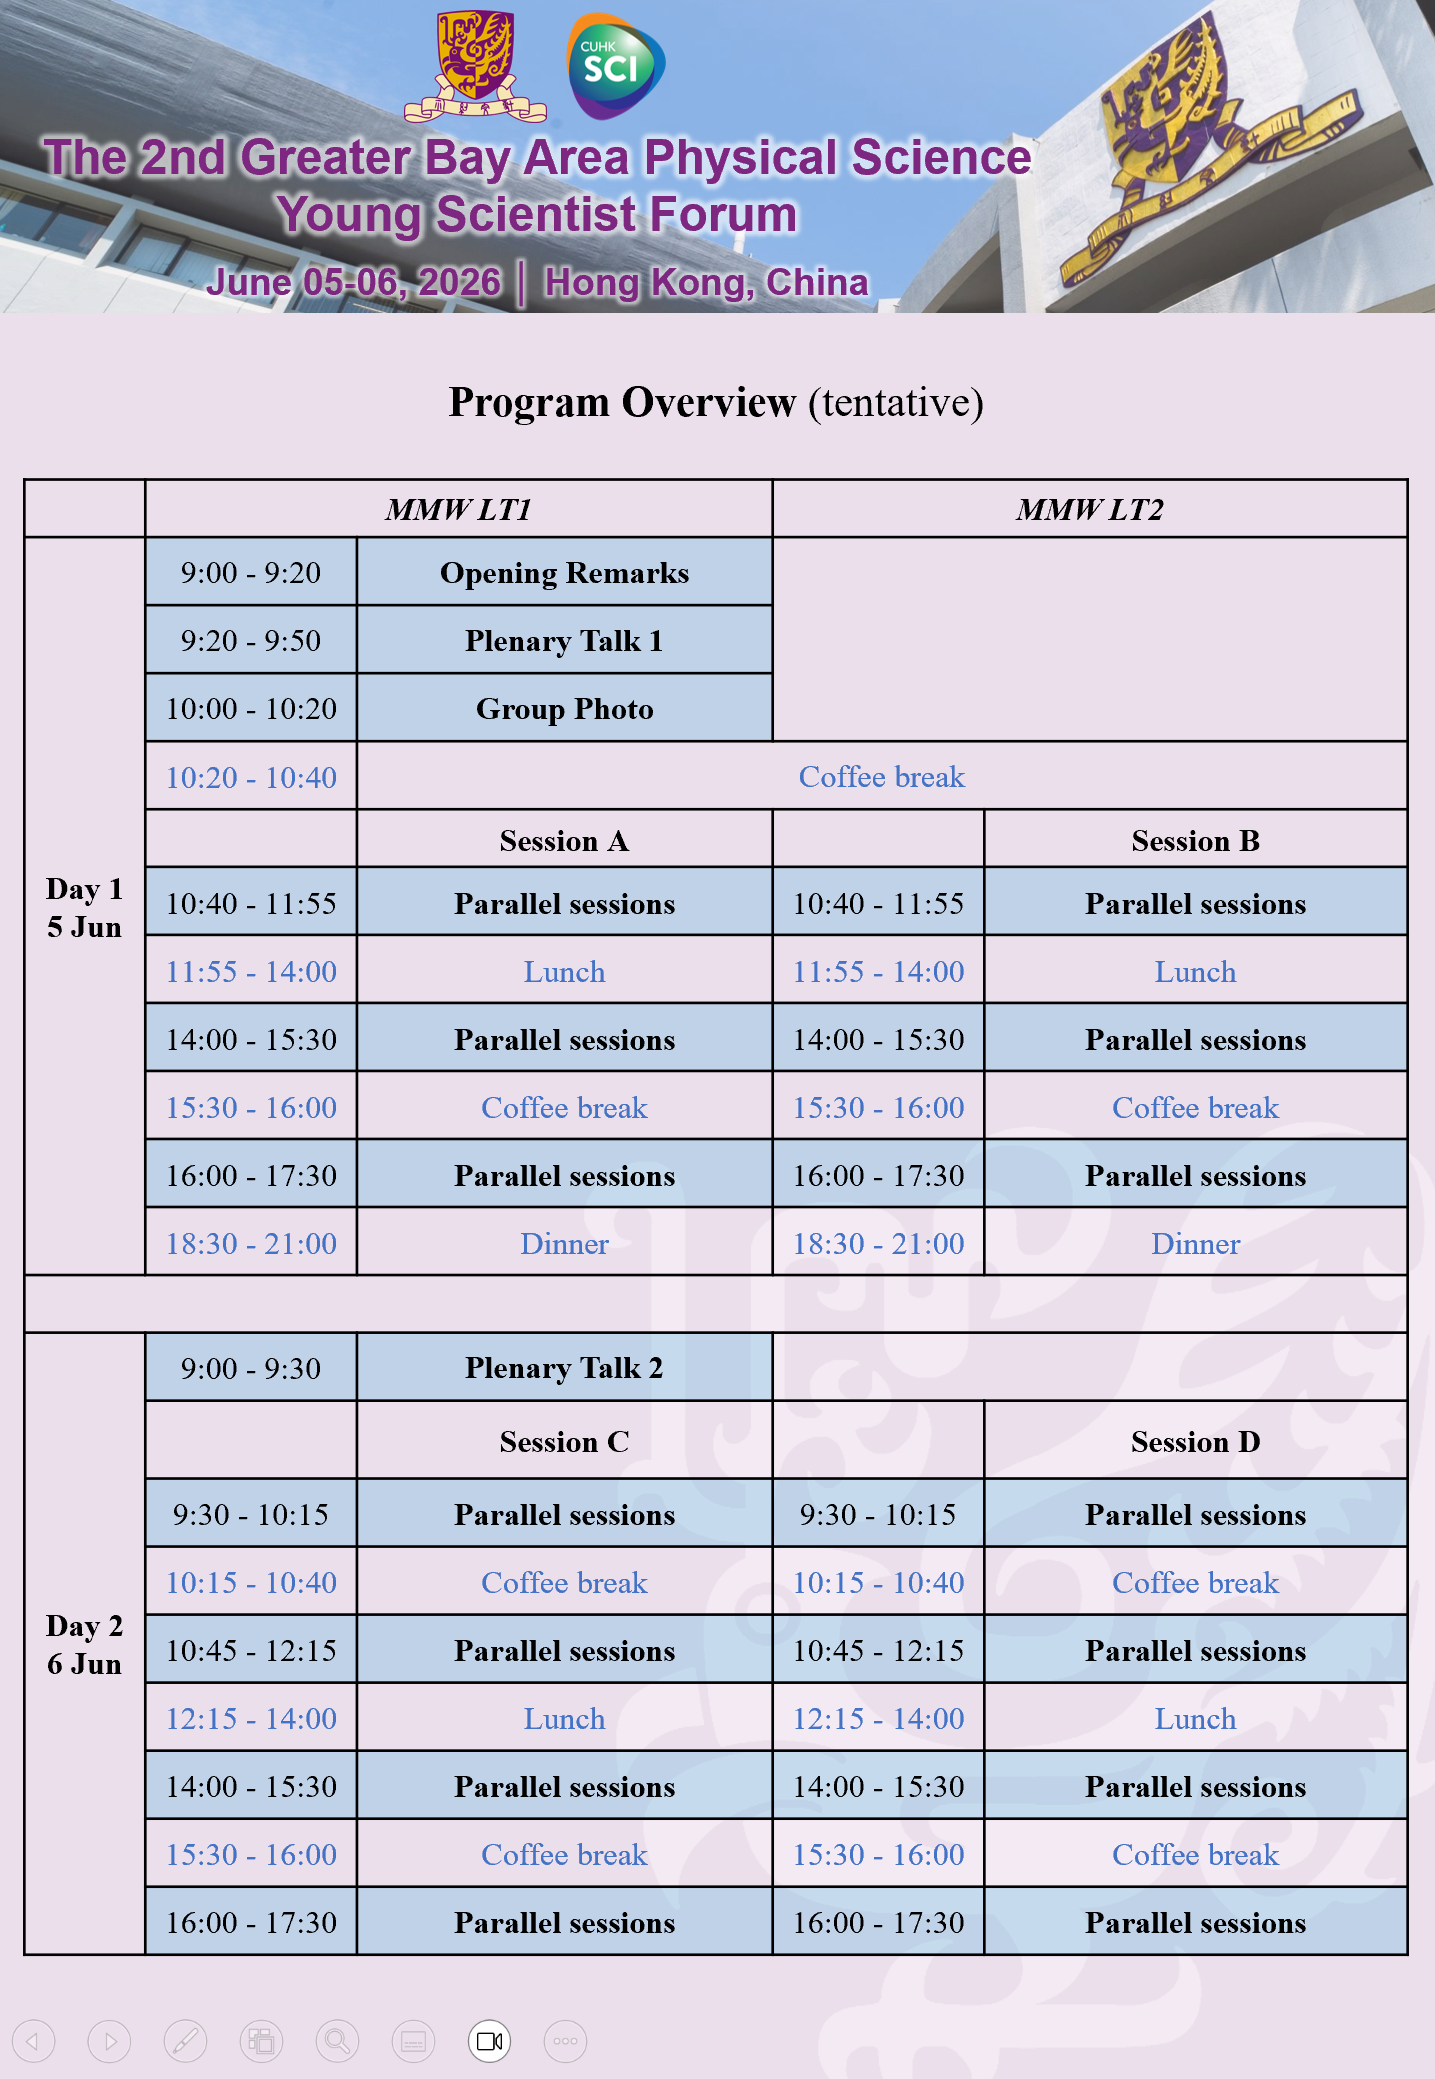
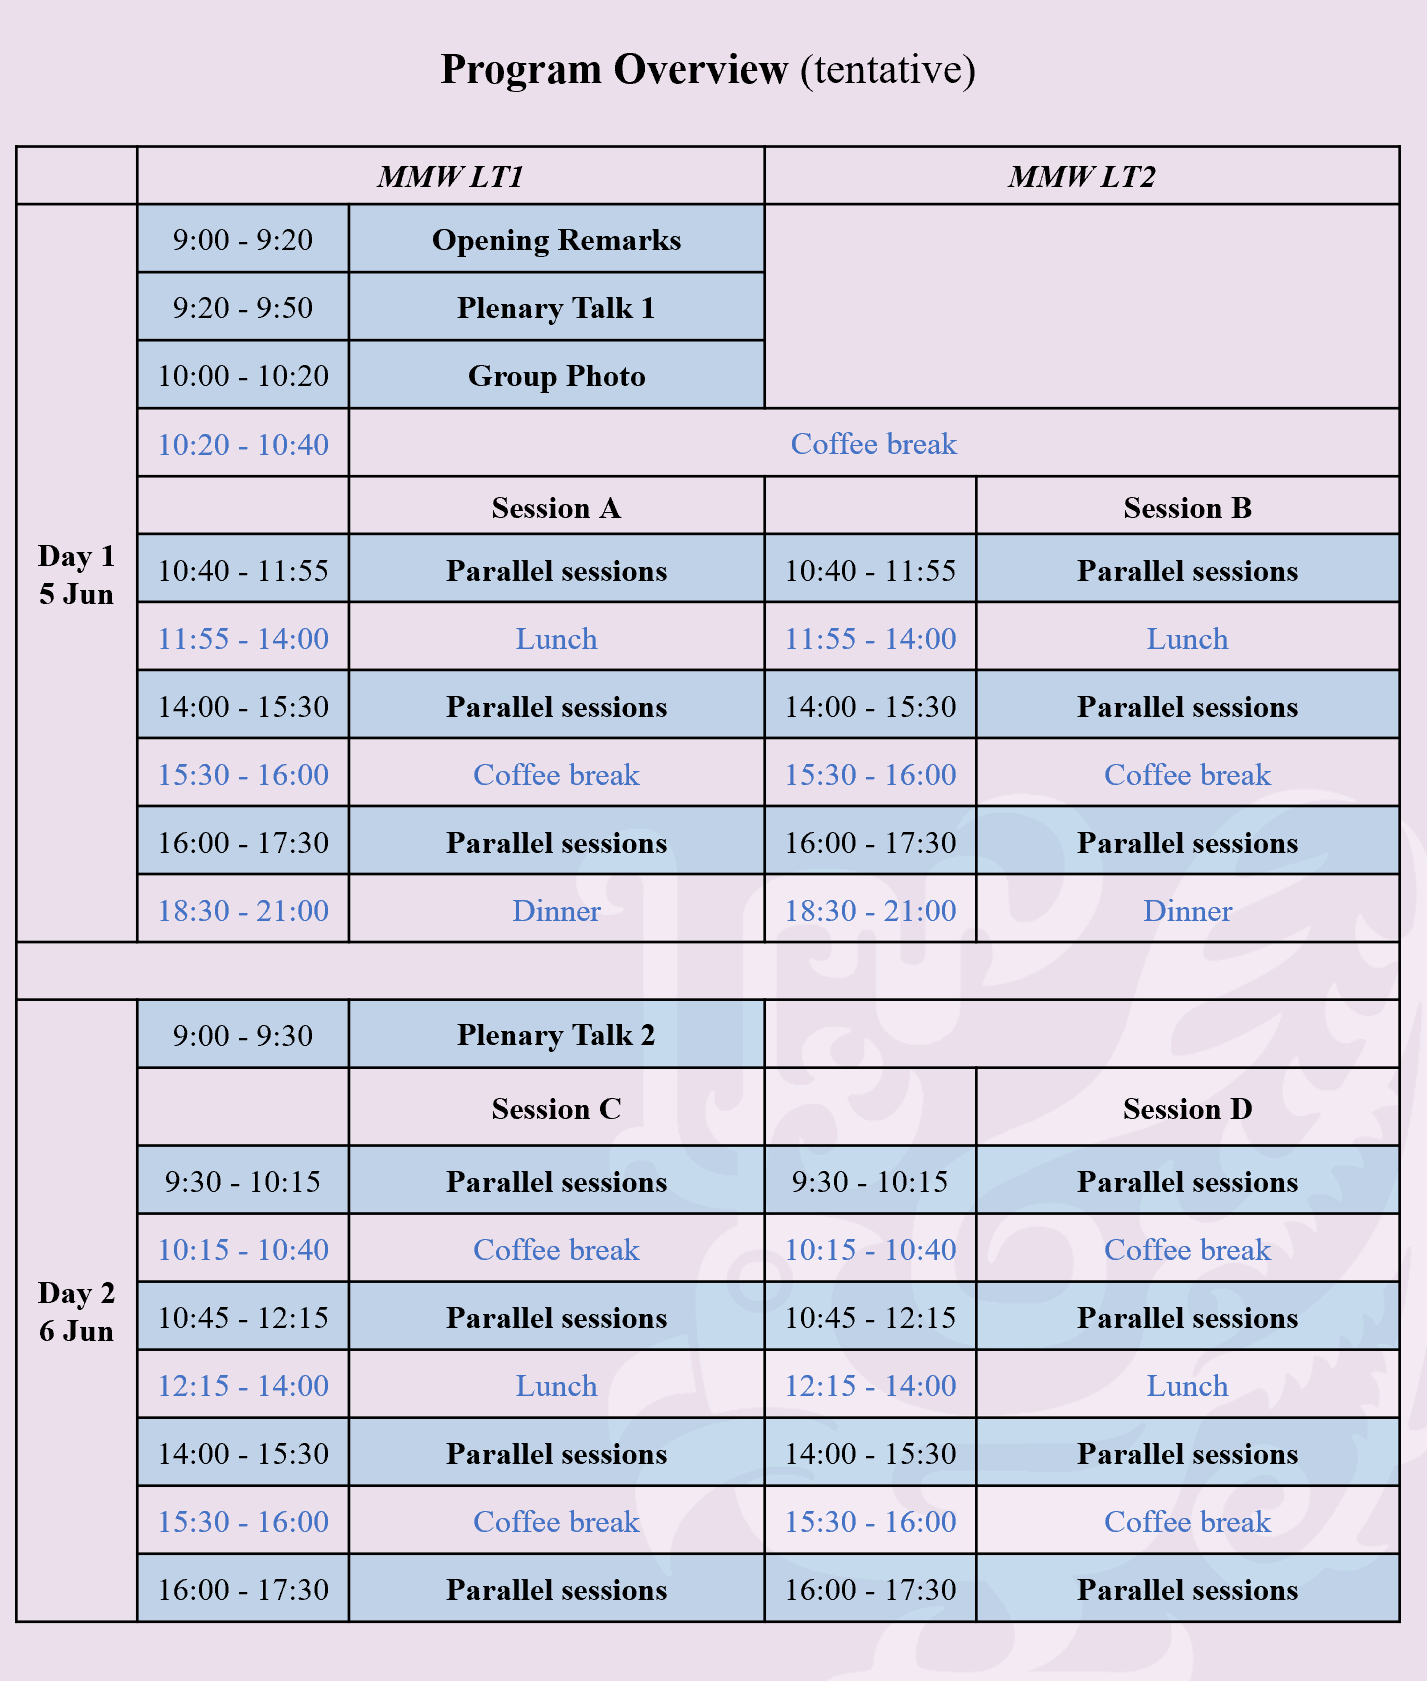
updating program overview

diff --git a/program/index.html b/program/index.html
@@ -41,152 +41,8 @@
         </tr>
     </table>
 
-    <h2>Preliminary Program</h2>
-    <p>
-        The detailed program will be announced after the abstract submission deadline (April 8, 2026). Below is a preliminary overview of the schedule.
-    </p>
-
-    <h3>Day 1 &ndash; June 5, 2026 (Full Day)</h3>
-
-    <table>
-        <tr>
-            <td class="date" rowspan="2">
-                Morning
-            </td>
-            <td class="title-special">
-                Opening Remarks
-            </td>
-        </tr>
-        <tr>
-            <td class="abstract">
-                Welcome address and opening of the 2nd Greater Bay Area Physical Science Young Scientist Forum.
-            </td>
-        </tr>
-    </table>
-
-    <table class="plenary">
-        <tr>
-            <td class="date" rowspan="3">
-                Morning
-            </td>
-            <td class="title">
-                Plenary Talk
-            </td>
-        </tr>
-        <tr>
-            <td class="speaker">
-                Speaker to be announced
-            </td>
-        </tr>
-        <tr>
-            <td class="abstract">
-                Details will be announced after abstract submission.
-            </td>
-        </tr>
-    </table>
-
-    <table>
-        <tr>
-            <td class="date" rowspan="2">
-                Morning &ndash;<br>Afternoon
-            </td>
-            <td class="title-special">
-                Parallel Sessions
-            </td>
-        </tr>
-        <tr>
-            <td class="abstract">
-                Invited talks covering physical sciences, materials science, quantum technologies, energy and environmental solutions, and interdisciplinary topics.
-            </td>
-        </tr>
-    </table>
-
-    <table>
-        <tr>
-            <td class="date" rowspan="2">
-                Noon
-            </td>
-            <td class="title-special">
-                Lunch
-            </td>
-        </tr>
-        <tr>
-            <td class="abstract">
-                Lunch will be provided for all participants.
-            </td>
-        </tr>
-    </table>
-
-    <table>
-        <tr>
-            <td class="date" rowspan="2">
-                Evening
-            </td>
-            <td class="title-special">
-                Dinner
-            </td>
-        </tr>
-        <tr>
-            <td class="abstract">
-                Dinner will be provided for all participants.
-            </td>
-        </tr>
-    </table>
-
-    <h3>Day 2 &ndash; June 6, 2026 (Full Day)</h3>
-
-    <table class="plenary">
-        <tr>
-            <td class="date" rowspan="3">
-                Morning
-            </td>
-            <td class="title">
-                Plenary Talk
-            </td>
-        </tr>
-        <tr>
-            <td class="speaker">
-                Speaker to be announced
-            </td>
-        </tr>
-        <tr>
-            <td class="abstract">
-                Details will be announced after abstract submission.
-            </td>
-        </tr>
-    </table>
-
-    <table>
-        <tr>
-            <td class="date" rowspan="2">
-                Morning &ndash;<br>Afternoon
-            </td>
-            <td class="title-special">
-                Parallel Sessions
-            </td>
-        </tr>
-        <tr>
-            <td class="abstract">
-                Invited talks covering physical sciences, materials science, quantum technologies, energy and environmental solutions, and interdisciplinary topics.
-            </td>
-        </tr>
-    </table>
-
-    <table>
-        <tr>
-            <td class="date" rowspan="2">
-                Noon
-            </td>
-            <td class="title-special">
-                Lunch
-            </td>
-        </tr>
-        <tr>
-            <td class="abstract">
-                Lunch will be provided for all participants.
-            </td>
-        </tr>
-    </table>
+    <h2>Program Overview</h2>
+    <img class="program-overview" src="assets/program_overview.png" alt="Forum 2026 program overview">
 
     <footer>
         &copy; Forum 2026 Organizing Committee

diff --git a/assets/main.css b/assets/main.css
@@ -107,6 +107,7 @@ td.qr{width:50%; text-align:center; vertical-align:top; padding:0 12px;}
 img.qr-code{display:block; width:220px; height:220px; max-width:100%; margin:0 auto; object-fit:contain;}
 iframe.directions{display:block; margin:1em auto 2em auto; width:800px; height:400px; border:none;}
 img.center{display:block; width:67%; margin:1em auto 2em auto;}
+img.program-overview{display:block; width:100%; margin:1em auto 2em auto;}
 
 /* Flyer Images */
 table.flyers{width:800px;}
